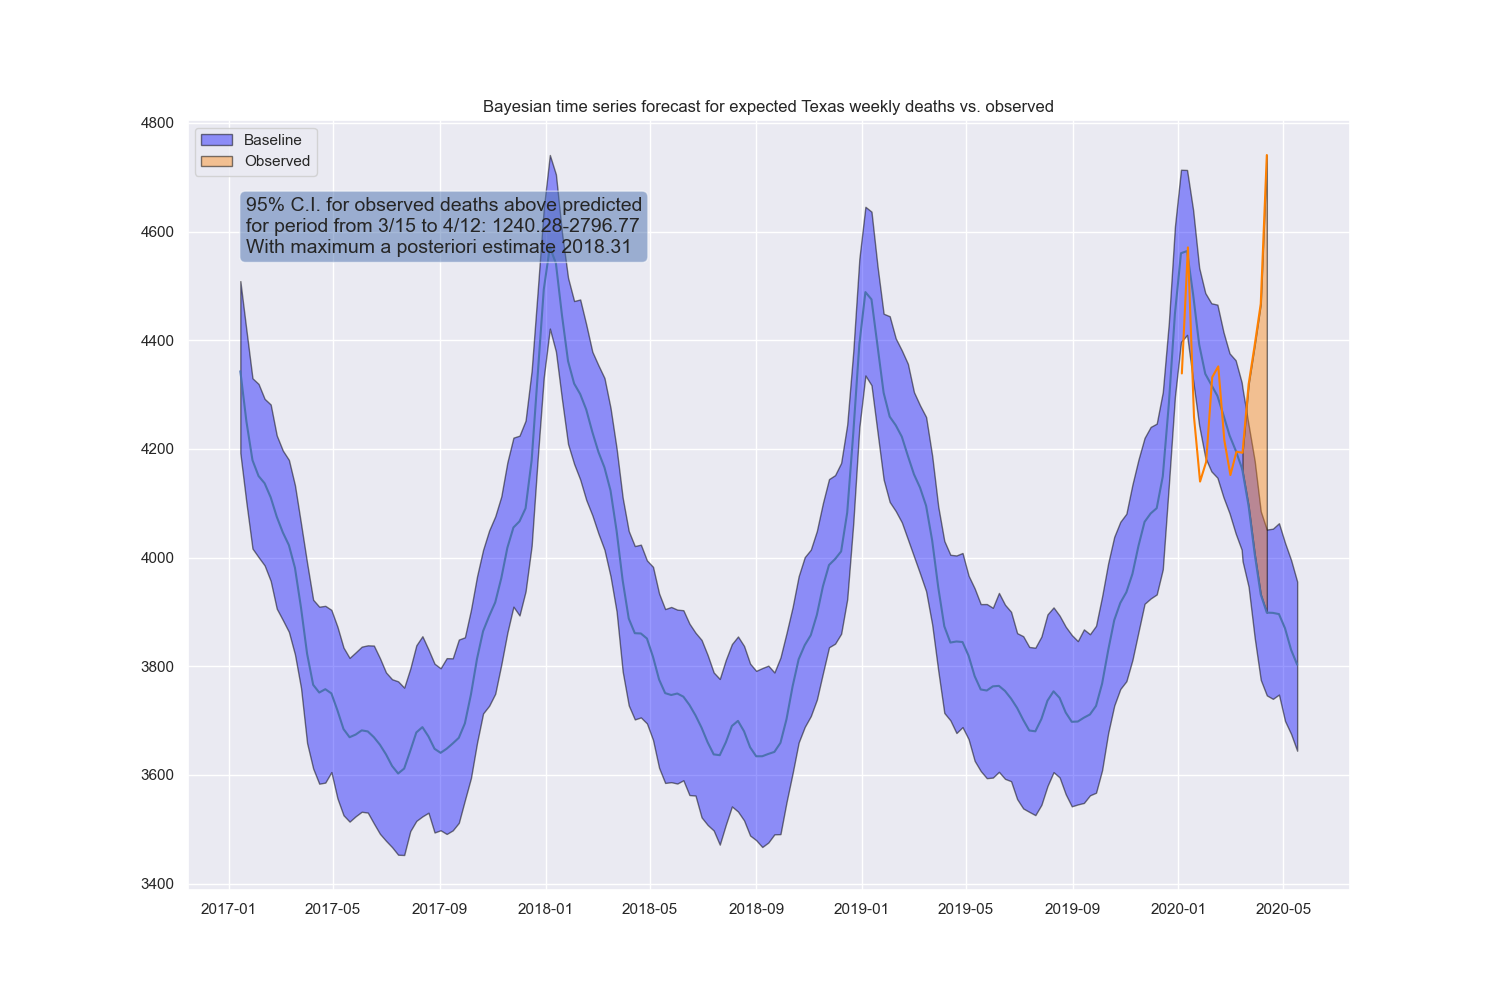
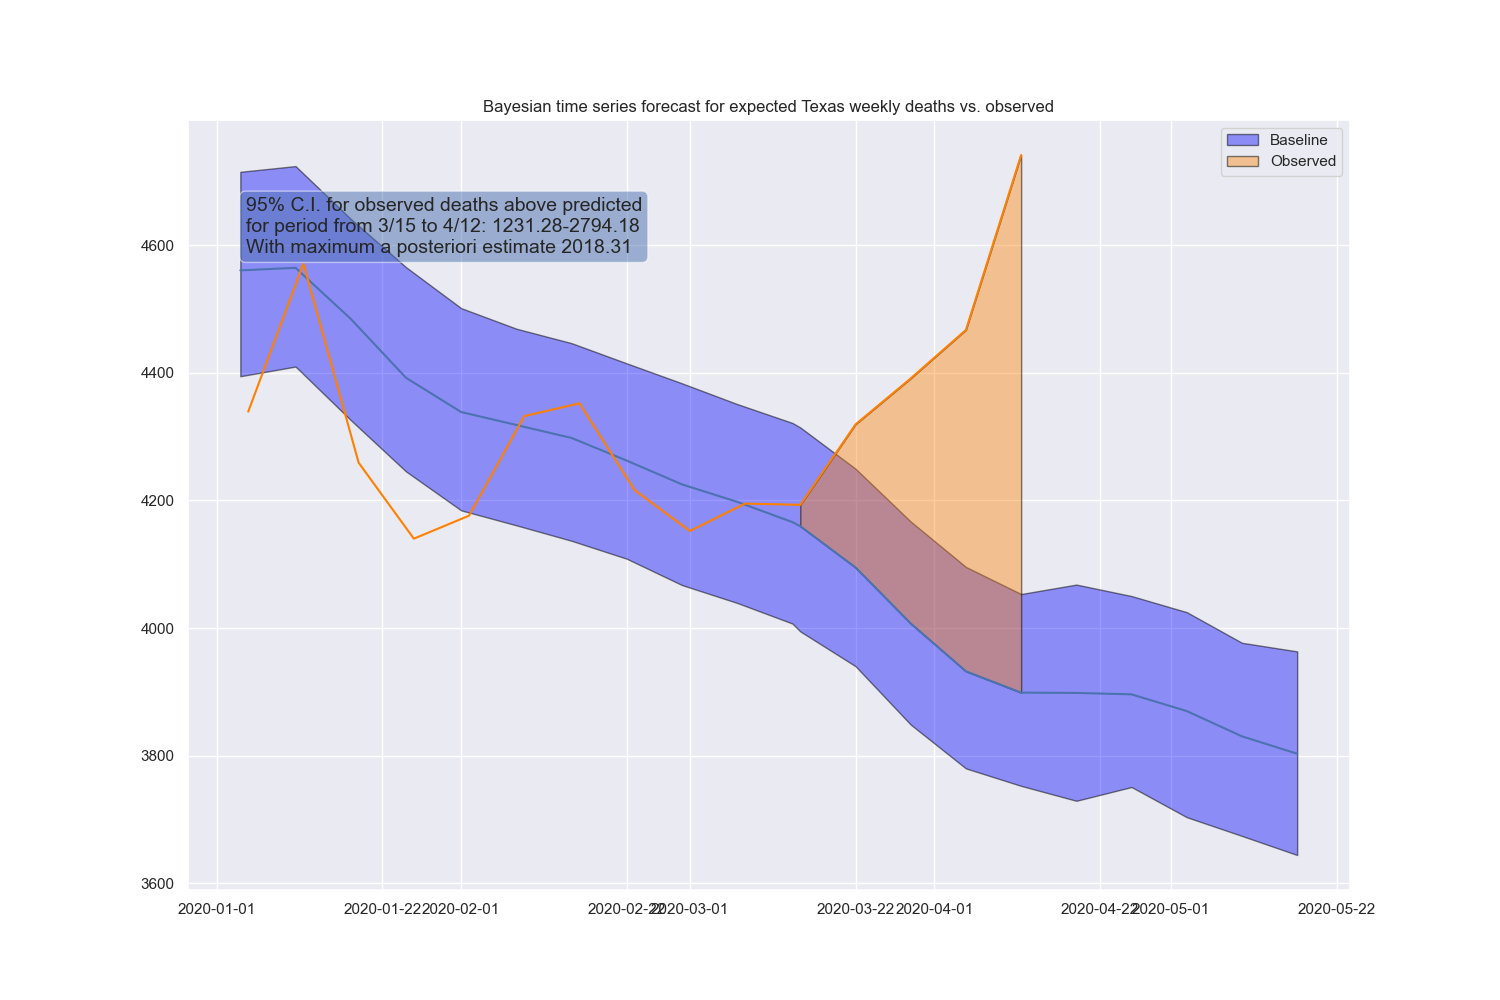
fixed weekly merge mismatch

diff --git a/covid_plot.py b/covid_plot.py
@@ -24,6 +24,7 @@ def gen_prediction(df):
 	m.fit(df_previous)
 	future = m.make_future_dataframe(periods=10, freq='W')
 	forecast = m.predict(future)
+	forecast['ds'] = pd.to_datetime(forecast['ds'].dt.to_period("W-SAT").dt.end_time.dt.date)
 	return forecast
 
 def format_results(df, forecast, state):
@@ -32,9 +33,9 @@ def format_results(df, forecast, state):
 	df_pred.columns = ['ds', 'actual']
 	# drop last two weeks because data is incomplete
 	df_pred = df_pred.iloc[0:df_pred.shape[0]-2]
-	df_pred['ds'] = df_pred['ds'] + pd.to_timedelta(1, unit='d')
+	#df_pred['ds'] = df_pred['ds'] + pd.to_timedelta(1, unit='d')
 	df_merge = df_pred.merge(forecast[['ds', 'yhat', 'yhat_lower', 'yhat_upper']], how='inner', on='ds')
-
+	df_merge = df_merge.loc[df_merge['ds']>="2020-03-01"]
 	end_date = list(df_merge['ds'])[-1]
 
 	title = "Bayesian time series forecast for expected {0} weekly deaths vs. observed".format(state)
@@ -45,10 +46,12 @@ def format_results(df, forecast, state):
                   "With maximum a posteriori estimate {0:.2f}".format((df_merge['actual'] - df_merge['yhat']).sum())])
 	return df_pred, df_merge, title, caption
 
-def plot(forecast, df_pred, df_merge, title, caption, output, state):
+def plot(forecast, df_pred, df_merge, title, caption, output, state, start_date):
 	# Plot result
 
 	fig, ax = plt.subplots(figsize=(15, 10))
+	if start_date:
+		forecast = forecast.loc[forecast['ds']>=start_date]
 	ax.plot(forecast['ds'], forecast['yhat'])
 	ax.fill_between(forecast['ds'], forecast['yhat_lower'], forecast['yhat_upper'], facecolor=(0,0,1,.4), edgecolor=(0,0,0,.5), label="Baseline")
 	ax.plot(df_pred['ds'], df_pred['actual'], color=(1,.5,.0))
@@ -63,20 +66,21 @@ def plot(forecast, df_pred, df_merge, title, caption, output, state):
 		plt.savefig(state)
 	plt.show()
 
-def main(state, output):
+def main(state, output, date):
 	data_source = "https://data.cdc.gov/api/views/xkkf-xrst/rows.csv?accessType=DOWNLOAD&bom=true&format=true%20target="	
 	df = get_data(data_source, state)
 	forecast = gen_prediction(df)
 	df_pred, df_merge, title, caption = format_results(df, forecast, state)
-	plot(forecast, df_pred, df_merge, title, caption, output, state)
+	plot(forecast, df_pred, df_merge, title, caption, output, state, date)
 
 def add_cli_args():
 	parser = argparse.ArgumentParser()
 	parser.add_argument('-s', '--state', default='United States')
 	parser.add_argument('-o', '--output', action='store_true')
+	parser.add_argument('-d', '--date', default='')
 	return parser
 
 if __name__=='__main__':
 	cmdline = add_cli_args()
 	FLAGS, unknown_args = cmdline.parse_known_args()	
-	main(FLAGS.state, FLAGS.output)
+	main(FLAGS.state, FLAGS.output, FLAGS.date)
